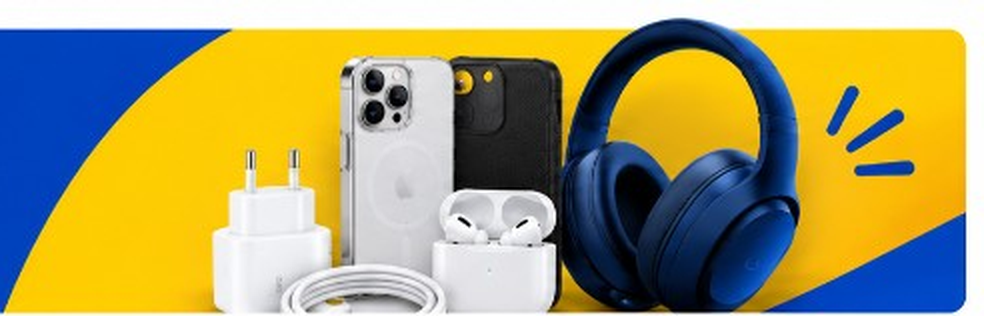
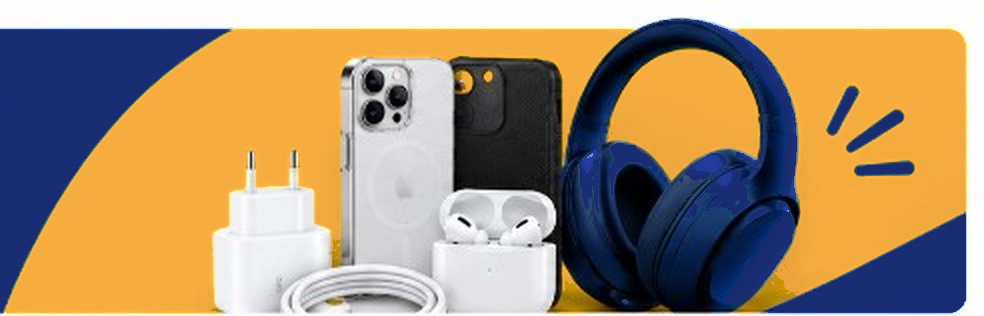
Match accessories section colors to navbar brand and sam.
Use bg-brand / bg-sam for the hero and tiles, and recolor the product collage to the same palette.

diff --git a/artifacts/samphone/src/components/Categories.tsx b/artifacts/samphone/src/components/Categories.tsx
@@ -15,10 +15,6 @@ import type { WooProduct } from "@/lib/woocommerce";
 import accessoriesProducts from "@/assets/mobile-accessories-products.png";
 import { cn } from "@/lib/utils";
 
-/** Section palette from the Mobile Accessories mockup. */
-const ACC_BLUE = "#1E4FD6";
-const ACC_YELLOW = "#F5C518";
-
 type TileData = { img: string | null; count: number };
 
 function tileImage(products: WooProduct[]): string | null {
@@ -54,41 +50,30 @@ function AccessoriesHeroBanner() {
       className="group relative mb-5 block overflow-hidden rounded-[1.25rem] md:mb-6 md:rounded-[1.5rem]"
       aria-label={t("home_accessories_title")}
     >
-      <div
-        className="relative flex min-h-[9.75rem] items-stretch overflow-hidden sm:min-h-[11.5rem] md:min-h-[13.75rem] lg:min-h-[15.5rem]"
-        style={{ backgroundColor: ACC_BLUE }}
-      >
-        {/* Soft circle accents */}
+      <div className="relative flex min-h-[9.75rem] items-stretch overflow-hidden bg-brand sm:min-h-[11.5rem] md:min-h-[13.75rem] lg:min-h-[15.5rem]">
         <div
           aria-hidden
-          className="pointer-events-none absolute -bottom-16 -left-10 h-48 w-48 rounded-full opacity-30"
-          style={{ backgroundColor: "#163DB0" }}
+          className="pointer-events-none absolute -bottom-16 -left-10 h-48 w-48 rounded-full bg-brand-dark opacity-40"
         />
         <div
           aria-hidden
-          className="pointer-events-none absolute inset-y-0 right-0 w-[46%] sm:w-[44%] md:w-[42%]"
+          className="pointer-events-none absolute inset-y-0 right-0 w-[46%] bg-sam sm:w-[44%] md:w-[42%]"
           style={{
-            backgroundColor: ACC_YELLOW,
             borderTopLeftRadius: "58% 100%",
             borderBottomLeftRadius: "72% 100%",
           }}
         />
         <div
           aria-hidden
-          className="pointer-events-none absolute -right-8 top-1/2 h-56 w-56 -translate-y-1/2 rounded-full opacity-40"
-          style={{ backgroundColor: "#FFD24A" }}
+          className="pointer-events-none absolute -right-8 top-1/2 h-56 w-56 -translate-y-1/2 rounded-full bg-sam opacity-50"
         />
 
         <div className="relative z-10 grid w-full grid-cols-[1.15fr_1fr] items-center sm:grid-cols-[1.2fr_1fr]">
           <div className="flex flex-col justify-center px-5 py-6 sm:px-7 sm:py-8 md:px-10 md:py-10 lg:px-12">
-            <span
-              className="mb-3 block h-[3px] w-10 rounded-full sm:mb-4 sm:w-12"
-              style={{ backgroundColor: ACC_YELLOW }}
-              aria-hidden
-            />
+            <span className="mb-3 block h-[3px] w-10 rounded-full bg-sam sm:mb-4 sm:w-12" aria-hidden />
             <h2 className="font-display text-[1.5rem] font-extrabold leading-[1.08] tracking-tight text-white sm:text-[1.95rem] md:text-[2.4rem] lg:text-[2.75rem]">
               {t("home_accessories_title_mobile")}{" "}
-              <span style={{ color: ACC_YELLOW }}>{t("home_accessories_title_accessories")}</span>
+              <span className="text-sam">{t("home_accessories_title_accessories")}</span>
             </h2>
             <p className="mt-2 max-w-[22rem] text-[12px] font-medium leading-snug text-white/90 sm:mt-3 sm:text-[14px] md:text-[15px]">
               {t("home_accessories_sub")}
@@ -120,13 +105,14 @@ function AccessoryCategoryTile({
 }) {
   const Icon = groupIcon(page.group);
   const isBlue = index % 2 === 0;
-  const bg = isBlue ? ACC_BLUE : ACC_YELLOW;
 
   return (
     <Link
       href={accessoryPageHref(page.group)}
-      className="group flex flex-col overflow-hidden rounded-[1.15rem] transition-transform duration-300 hover:-translate-y-1"
-      style={{ backgroundColor: bg }}
+      className={cn(
+        "group flex flex-col overflow-hidden rounded-[1.15rem] transition-transform duration-300 hover:-translate-y-1",
+        isBlue ? "bg-brand" : "bg-sam",
+      )}
       data-testid={`card-category-${index}`}
     >
       <span className="relative flex aspect-[1/1.05] items-center justify-center px-4 pb-2 pt-5 sm:px-5 sm:pt-6">
@@ -141,7 +127,7 @@ function AccessoryCategoryTile({
           <span
             className={cn(
               "flex h-16 w-16 items-center justify-center rounded-full",
-              isBlue ? "bg-white/15 text-white" : "bg-black/10 text-[#1a1a1a]",
+              isBlue ? "bg-white/15 text-white" : "bg-brand/15 text-brand",
             )}
           >
             <Icon className="h-8 w-8" strokeWidth={1.7} />
@@ -151,19 +137,13 @@ function AccessoryCategoryTile({
 
       <span className="mt-auto px-3 pb-3.5 sm:px-4 sm:pb-4">
         <span className="flex w-full items-center gap-2 rounded-full bg-white px-2.5 py-2 shadow-sm sm:gap-2.5 sm:px-3 sm:py-2.5">
-          <span
-            className="flex h-7 w-7 shrink-0 items-center justify-center rounded-full text-white sm:h-8 sm:w-8"
-            style={{ backgroundColor: ACC_BLUE }}
-          >
+          <span className="flex h-7 w-7 shrink-0 items-center justify-center rounded-full bg-brand text-white sm:h-8 sm:w-8">
             <Icon className="h-3.5 w-3.5 sm:h-4 sm:w-4" strokeWidth={2.2} />
           </span>
-          <span
-            className="min-w-0 flex-1 truncate text-[12px] font-extrabold leading-tight sm:text-[13px] md:text-[14px]"
-            style={{ color: ACC_BLUE }}
-          >
+          <span className="min-w-0 flex-1 truncate text-[12px] font-extrabold leading-tight text-brand sm:text-[13px] md:text-[14px]">
             {page.label}
           </span>
-          <ArrowRight className="h-3.5 w-3.5 shrink-0 sm:h-4 sm:w-4" style={{ color: ACC_BLUE }} strokeWidth={2.4} />
+          <ArrowRight className="h-3.5 w-3.5 shrink-0 text-brand sm:h-4 sm:w-4" strokeWidth={2.4} />
         </span>
       </span>
     </Link>
